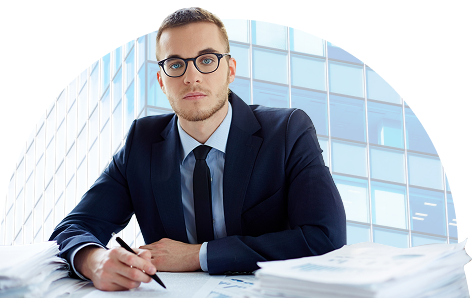
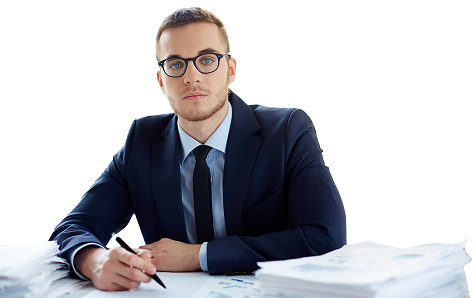
Правки баннера

diff --git a/assets/css/main.css b/assets/css/main.css
@@ -305,6 +305,10 @@ body {
     flex-direction: column;
 }
 
+.banner__img.bg-city {
+	background: url('../images/banner__bg-city.png') no-repeat bottom center;
+}
+
 @media(max-width: 991px) {
 	.banner .container {
 		flex-direction: column;
@@ -430,5 +434,14 @@ body {
 	
 	.variant-2 .banner__title span {
 		font-size: 15px;
+	}
+	
+	.banner .banner__img.bg-city {
+		background-size: contain;
+	}
+	
+	.banner .banner__img.bg-city img {
+		display: block;
+		max-width: 100%;
 	}
 }

diff --git a/index.html b/index.html
@@ -49,9 +49,8 @@
 		
 		<section class="banner variant-2">
 			<div class="container">
-				<div class="banner__img">
+				<div class="banner__img bg-city">
 					<picture>
-					  <source srcset="./assets/images/banner__img2-mobile.png" media="(max-width: 576px)">
 					  <img src="./assets/images/banner__img2.png" alt="Описание изображения">
 					</picture>
 				</div>
